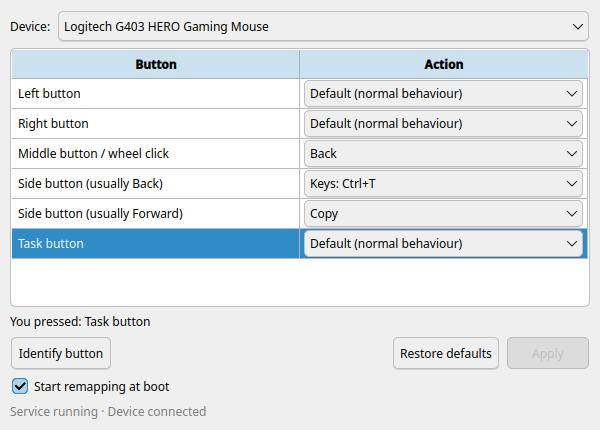
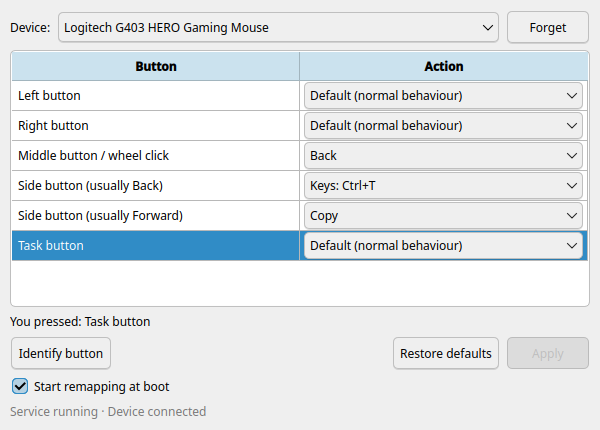
Add "Forget" button for the saved device, version 0.1.2
- Settings app: "Forget" next to the device list removes the device
  BallKey has set up and its button settings (after a confirmation and
  the usual password prompt). Works for an unplugged old mouse (it
  disappears from the list) and a connected one (it goes back to
  normal immediately).
- README: documents Forget; main screenshot updated.

Tested on Fedora KDE with a Logitech G403: forget while unplugged,
re-setup after replugging, forget while connected. Packages pass the
container tests on Fedora, Debian, Ubuntu and Arch.

Changed region(s): [[0.03, 0.0, 0.99, 0.6047]]

diff --git a/gui/ballkey-settings.py b/gui/ballkey-settings.py
@@ -361,9 +361,15 @@ class MainWindow(QWidget):
         self.device_box = QComboBox()
         self.device_box.setPlaceholderText("No mouse or trackball found")
         self.device_box.currentIndexChanged.connect(self.on_device_chosen)
+        self.forget_button = QPushButton("Forget")
+        self.forget_button.setToolTip(
+            "Remove this device and its button settings from BallKey "
+            "(for example a mouse you no longer have)")
+        self.forget_button.clicked.connect(self.forget_device)
         top = QHBoxLayout()
         top.addWidget(QLabel("Device:"))
         top.addWidget(self.device_box, 1)
+        top.addWidget(self.forget_button)
 
         self.table = QTableWidget(0, 2)
         self.table.setHorizontalHeaderLabels(["Button", "Action"])
@@ -557,6 +563,11 @@ class MainWindow(QWidget):
         self.defaults_button.setEnabled(ok)
         self.identify_button.setEnabled(ok and dev["connected"])
         self.apply_button.setEnabled(ok and self.has_changes())
+        self.forget_button.setEnabled(ok and self.is_saved_device(dev))
+
+    def is_saved_device(self, dev):
+        saved = (self.saved_config or {}).get("device")
+        return bool(dev and saved and device_key(dev) == device_key(saved))
 
     def restore_defaults(self):
         for row in range(self.table.rowCount()):
@@ -639,6 +650,31 @@ class MainWindow(QWidget):
 
         self.client.set_config(old, done)
 
+    def forget_device(self):
+        dev = self.current_device()
+        answer = QMessageBox.question(
+            self, "Forget device?",
+            f"Forget <b>{dev['name']}</b>?<br><br>Its button settings will "
+            "be removed and it will behave normally. You can set it up "
+            "again any time while it's connected.")
+        if answer != QMessageBox.StandardButton.Yes:
+            return
+        self.stop_identify()
+        new = {"version": 1, "device": None, "mappings": {}}
+        self.set_busy(True, "Saving… (a password prompt may appear)")
+
+        def done(error_name, error_message):
+            self.set_busy(False)
+            if error_name:
+                self.show_save_error(error_name, error_message)
+                return
+            self.saved_config = new
+            self.load()
+            self.on_device_chosen()   # show the rows without its settings
+            self.hint.setText(f"Forgot {dev['name']}.")
+
+        self.client.set_config(new, done)
+
     def toggle_boot(self, enabled):
         self.set_busy(True, "Saving… (a password prompt may appear)")
 
@@ -665,7 +701,8 @@ class MainWindow(QWidget):
 
     def set_busy(self, busy, text=""):
         for w in (self.device_box, self.table, self.identify_button,
-                  self.defaults_button, self.apply_button, self.boot_box):
+                  self.defaults_button, self.apply_button, self.boot_box,
+                  self.forget_button):
             w.setEnabled(not busy)
         if busy:
             self.hint.setText(text)

diff --git a/README.md b/README.md
@@ -69,6 +69,10 @@ The list shows the common buttons; extra buttons appear when you use
 **Identify button** on them. **Restore defaults** sets every button back
 to normal (click **Apply** to save).
 
+**Forget** (next to the device list) removes the device BallKey has set
+up, together with its button settings. Use it for a mouse you no longer
+have; it shows as "(not connected)" in the list.
+
 ## Uninstall
 
 Remove the `ballkey` package (Discover/Software, `sudo dnf remove ballkey`,
